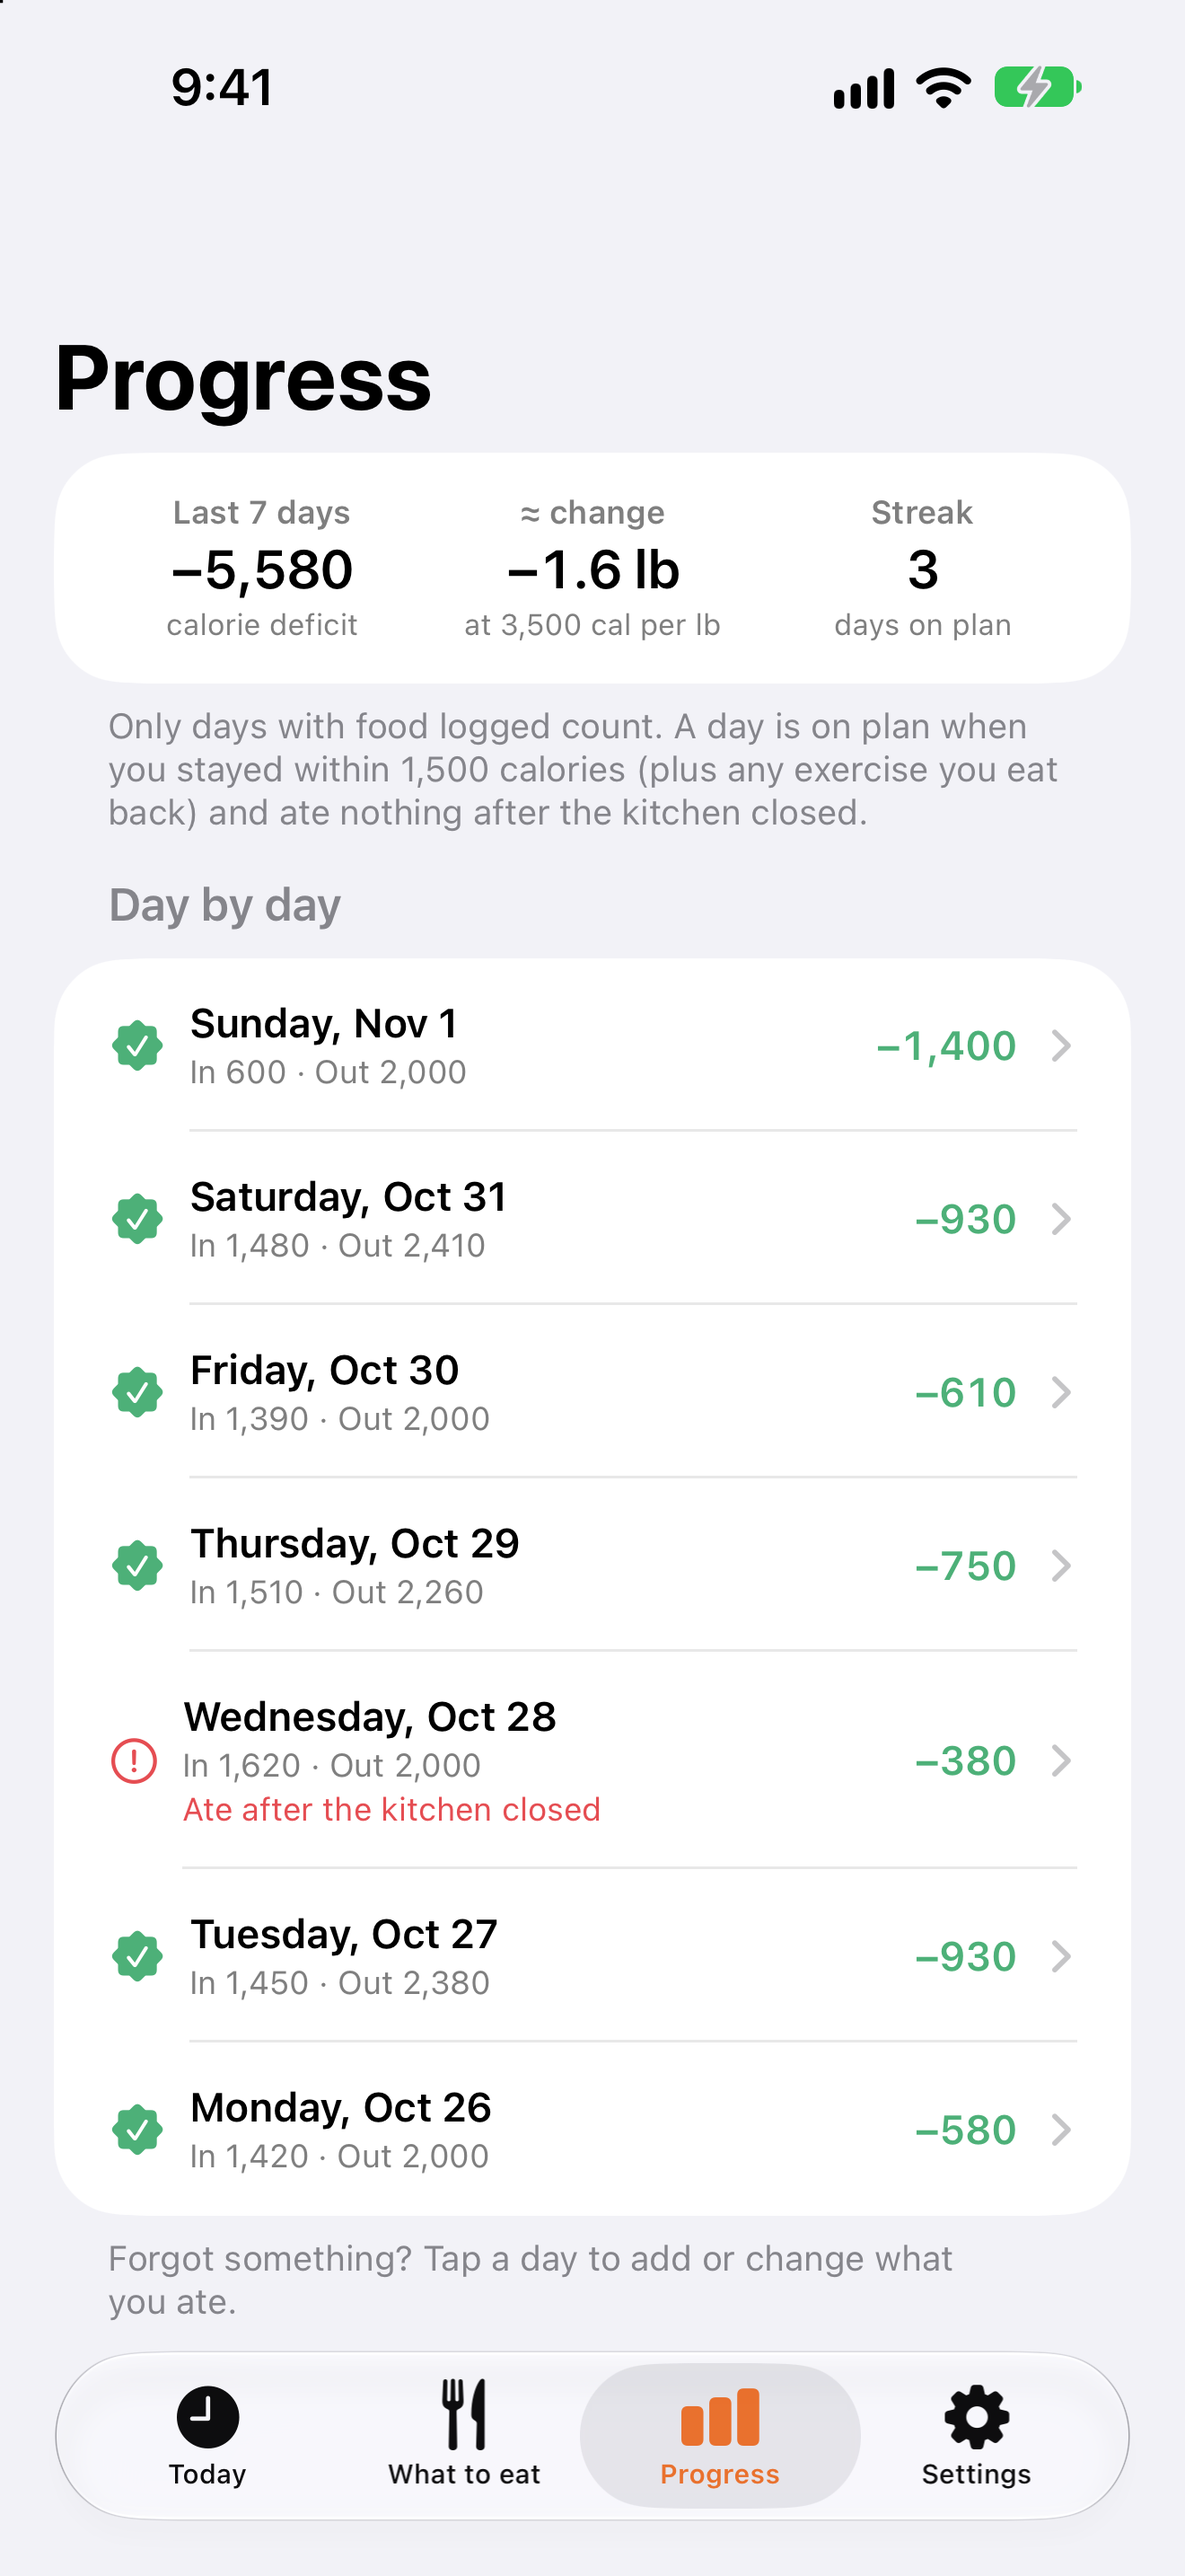
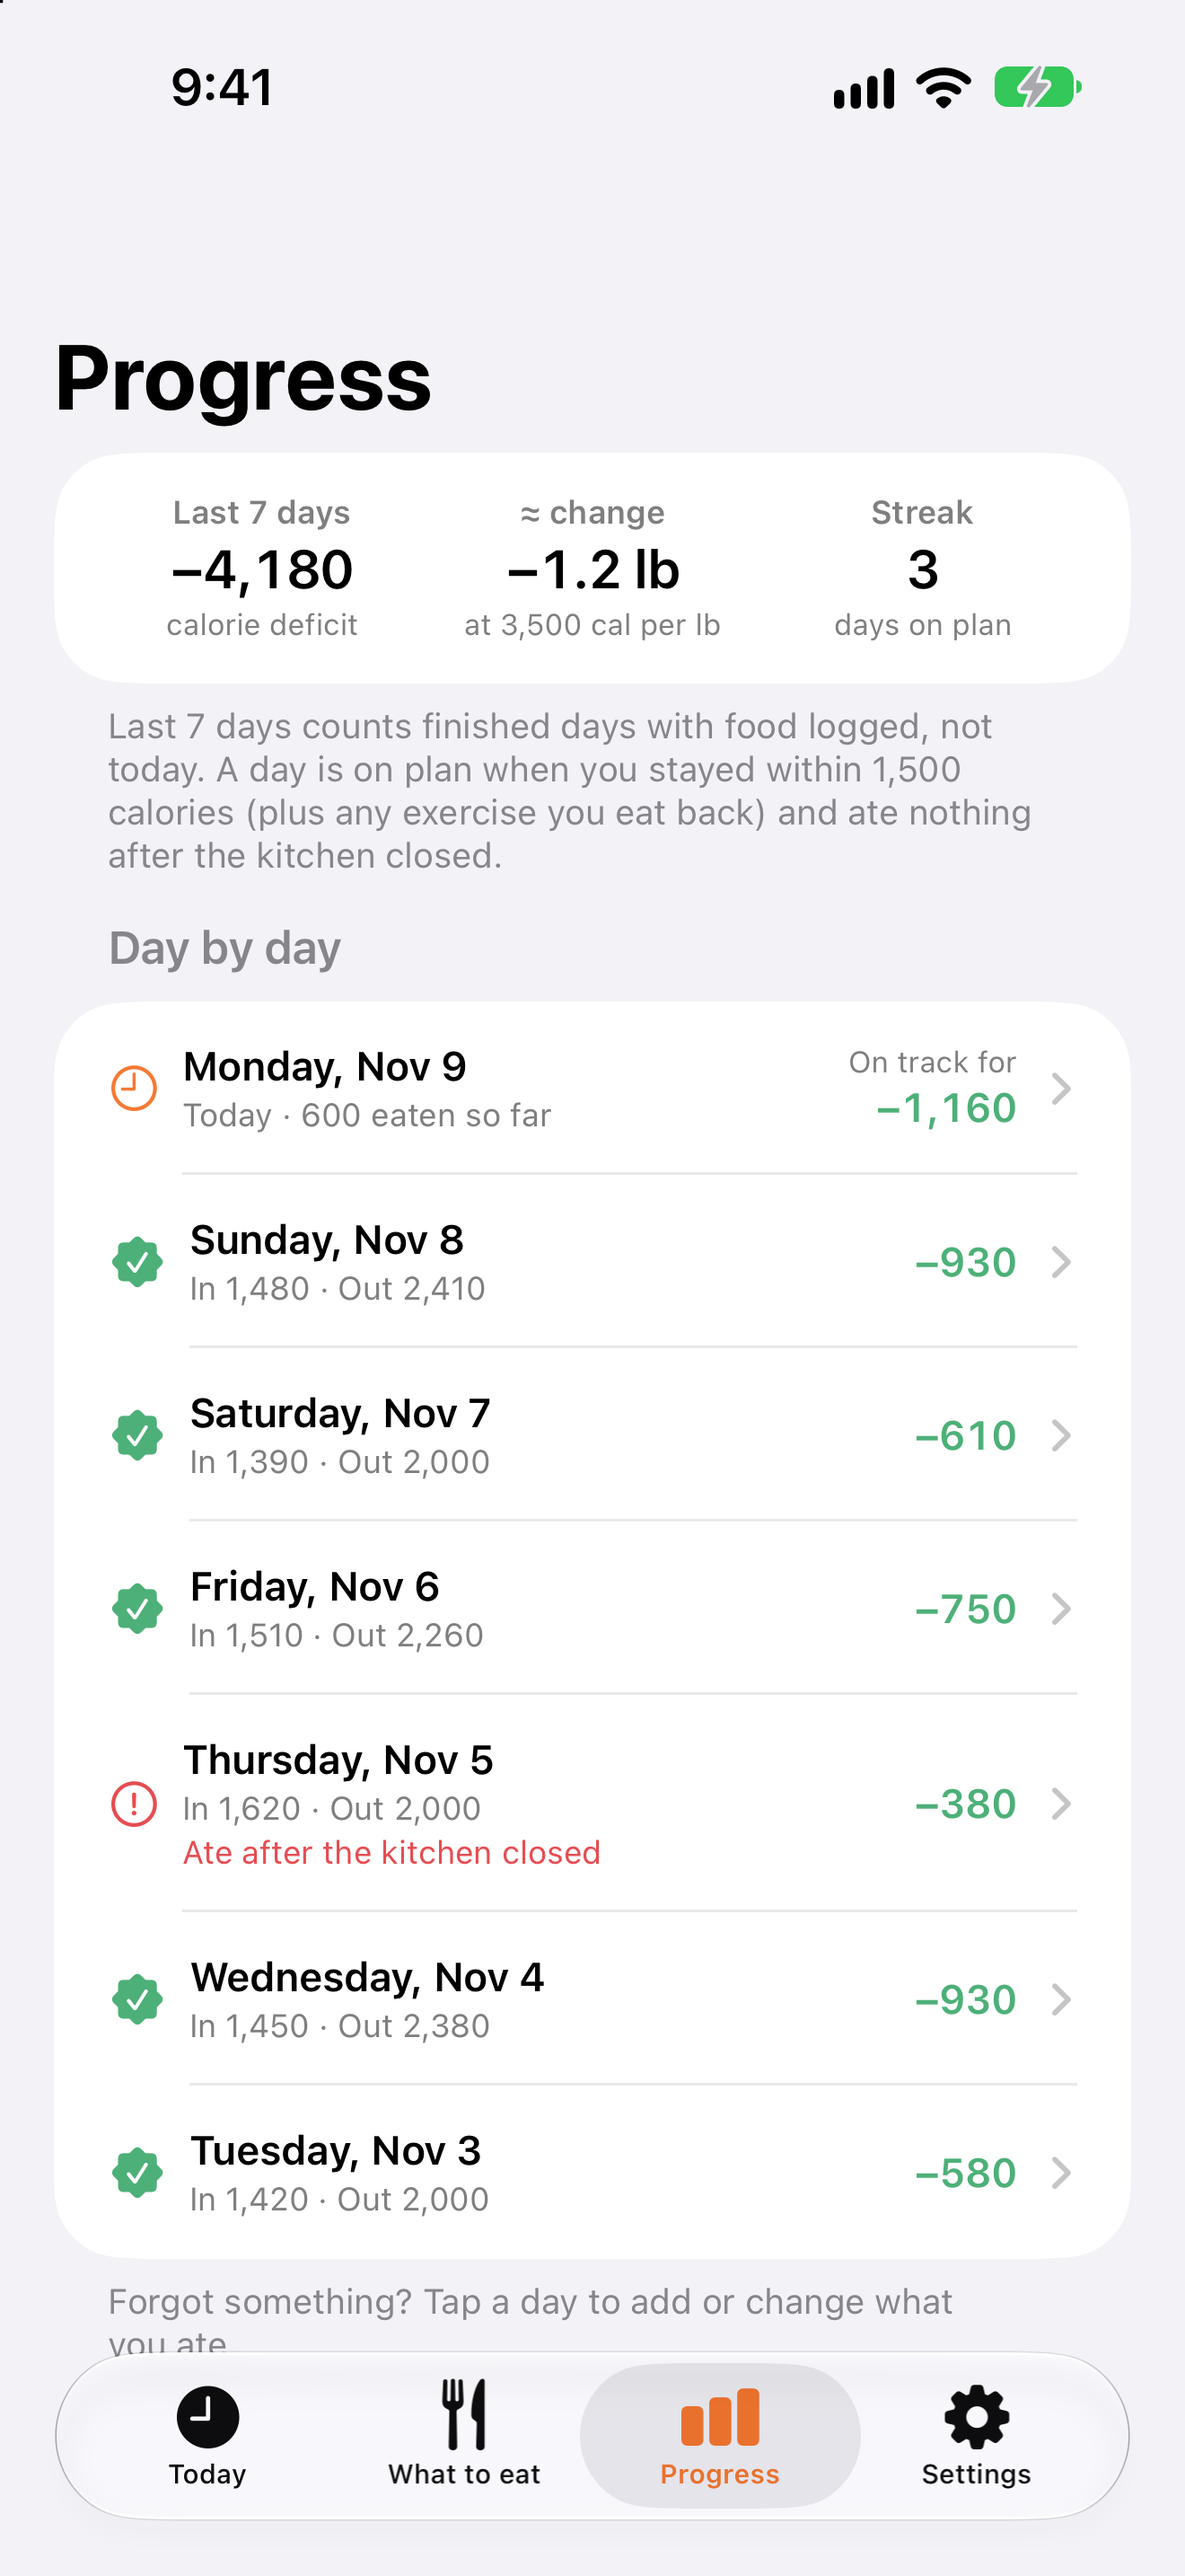
Subscription: privacy and support; new progress screenshot

diff --git a/support.html b/support.html
@@ -11,6 +11,9 @@
 <h2>Why are my evening meals smaller and lower in carbs?</h2>
 <p>That is the idea behind the app: carbs early, protein late, and the kitchen closes at 7 PM or three hours before bed, whichever comes first. You can change the times, the number of meals and the meal sizes in Settings.</p>
 
+<h2>How much does NutraTrim cost?</h2>
+<p>Setting up your plan is free. NutraTrim Monthly is free for 3 days, then $14.99 a month, renewing automatically. To cancel, open iPhone Settings → your name → Subscriptions → NutraTrim at least 24 hours before the trial or month ends. Changed phones or reinstalled? Tap Restore Purchases in NutraTrim's Settings → Subscription. Full terms: <a href="https://www.apple.com/legal/internet-services/itunes/dev/stdeula/">Terms of Use</a>.</p>
+
 <h2>I'm not getting meal reminders</h2>
 <p>Check iPhone Settings → Notifications → NutraTrim and make sure alerts are allowed. Open the app now and then: it lines up about two weeks of reminders at a time.</p>
 

diff --git a/privacy.html b/privacy.html
@@ -25,6 +25,9 @@
 <h2>Notifications</h2>
 <p>Meal reminders are scheduled on your iPhone, not sent from a server. We do not know when you eat or whether reminders are on.</p>
 
+<h2>Subscription</h2>
+<p>The NutraTrim Monthly subscription and its free trial are handled by Apple through the App Store. The app checks with Apple whether your subscription is active, on your iPhone. We never see your payment details, your Apple ID or your purchase history.</p>
+
 <h2>Data we collect</h2>
 <p>Beyond plate scans as described above: none. The app contains no third-party analytics, advertising or tracking code. If you email us for support, we use your email address and message only to reply to you.</p>
 
